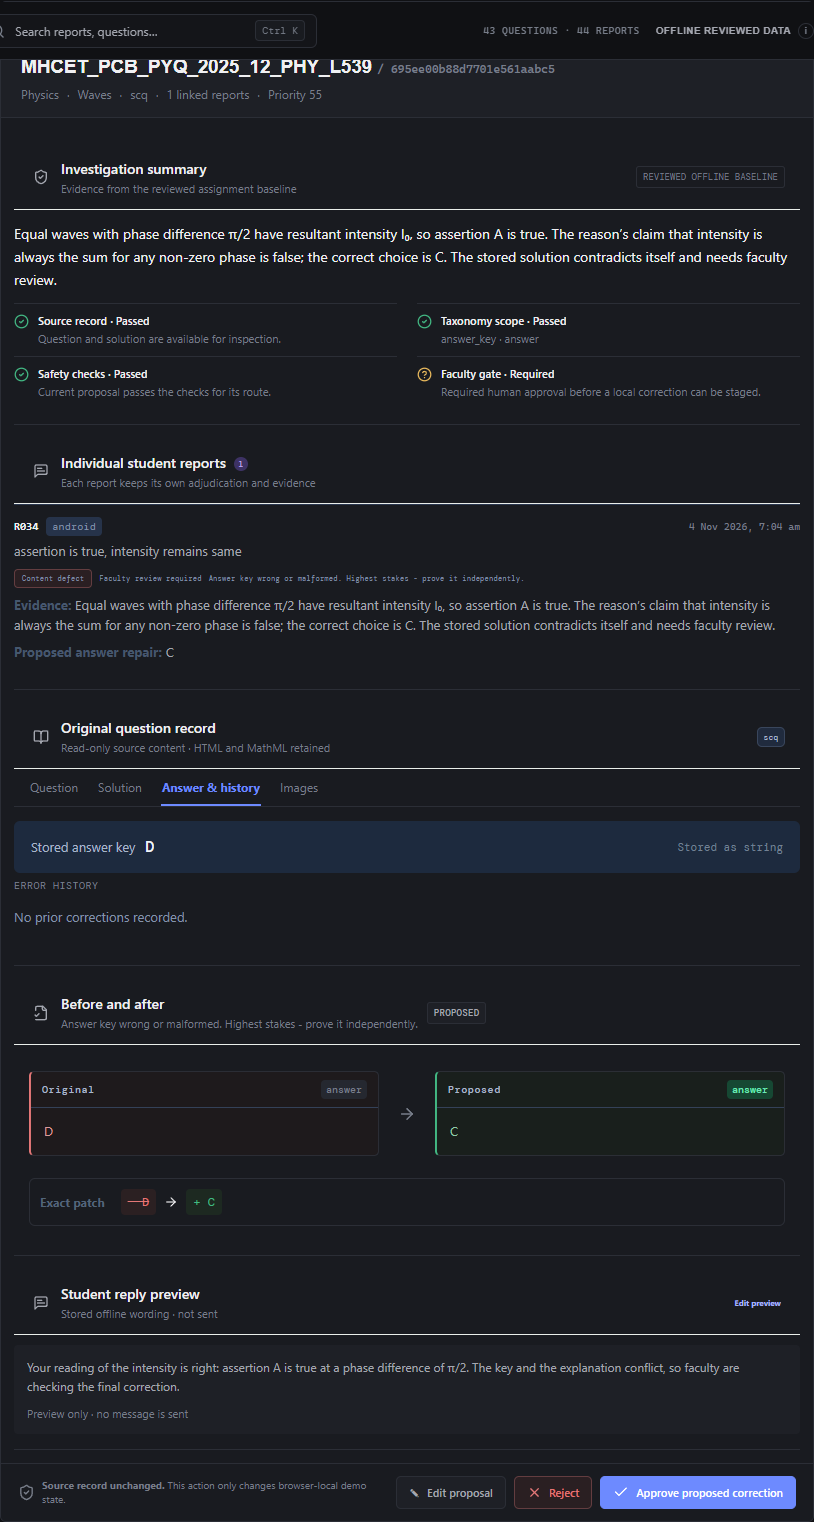
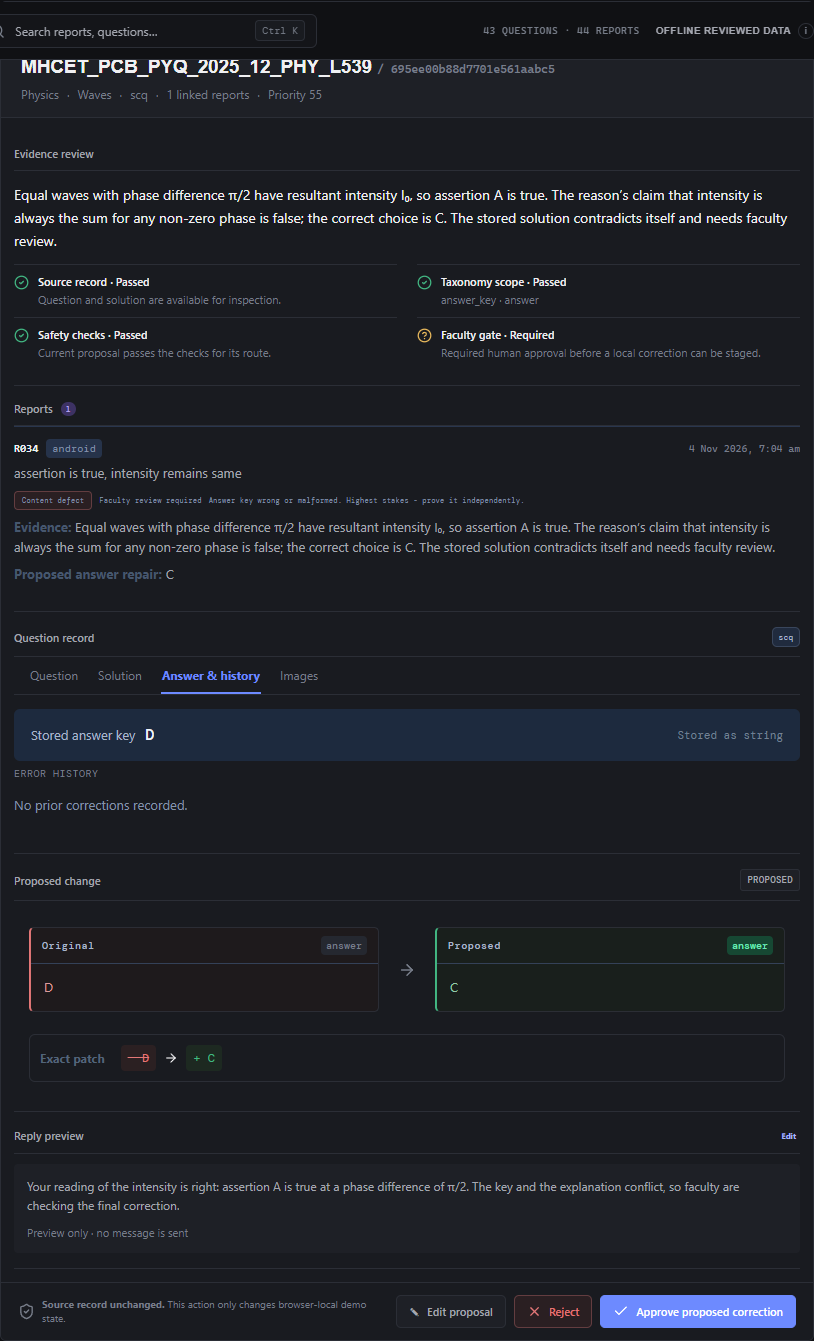
Document concise investigation headings release

diff --git a/docs/deployment.md b/docs/deployment.md
@@ -3,10 +3,10 @@
 ## Production deployment
 
 - **Live URL:** https://acadza-question-intelligence.vercel.app
-- **Production deployment URL:** https://acadza-question-intelligence-744ctakq7-hiten41s-projects.vercel.app
+- **Production deployment URL:** https://acadza-question-intelligence-gpjaztbgo-hiten41s-projects.vercel.app
 - **Repository:** https://github.com/Hiten41/acadza-question-intelligence
 - **Vercel project:** `hiten41s-projects/acadza-question-intelligence` (existing Hobby project)
-- **Production deployment ID:** `dpl_5CcUm6D9JBrn2dCQFWvJfFb7eRv7`
+- **Production deployment ID:** `dpl_GRSS2r9pezg6twymZB3g53inTzC8`
 - **Status:** Ready; deployed and verified on 11 November 2026 (Asia/Kolkata).
 - **Public access:** An unauthenticated request to the production alias returned HTTP 200.
 
@@ -22,8 +22,8 @@ The release checks passed on the final source snapshot:
 - `npm run results` — generated exactly 44 report-level results from 43 source questions (11 safe auto candidates and 19 faculty reviews).
 - `npm run build` — TypeScript and Vite production build passed.
 - `npm audit` — 0 vulnerabilities.
-- Chromium browser walkthrough — 35 checks passed on the public production alias with no uncaught browser or console errors. Checks covered overview counts and charts, global search, grouped R001 reports, the exact C-to-A mathematical change, confirmed local staging, persistence across refresh, proactive findings, the R034 faculty gate, staged decisions, audit history and JSON export, confirmed reset, mobile navigation and case detail, sidebar collapse, and seven viewport widths (360, 390, 768, 1024, 1280, 1440, and 1920 pixels) without horizontal overflow.
-- The public alias returned HTTP 200 after deployment. The production URL and screenshots were verified against deployment `dpl_5CcUm6D9JBrn2dCQFWvJfFb7eRv7`.
+- Chromium browser walkthrough — 36 checks passed on the public production alias with no uncaught browser or console errors. Checks covered overview counts and charts, global search, grouped R001 reports, the exact C-to-A mathematical change, confirmed local staging, persistence across refresh, proactive findings, the R034 faculty gate, staged decisions, audit history and JSON export, confirmed reset, mobile navigation and case detail, sidebar collapse, compact section headings, and seven viewport widths (360, 390, 768, 1024, 1280, 1440, and 1920 pixels) without horizontal overflow.
+- The public alias returned HTTP 200 after deployment. The production URL and screenshots were verified against deployment `dpl_GRSS2r9pezg6twymZB3g53inTzC8`.
 
[1 lines of base64/hex data omitted]
 

diff --git a/docs/demo-walkthrough.md b/docs/demo-walkthrough.md
@@ -1,6 +1,6 @@
 # Demo walkthrough
 
-Open the [public production demo](https://acadza-question-intelligence.vercel.app) in a fresh browser profile for a clean local review state. The demo stores review actions in browser local storage; **Reset demo** also clears that local state. The steps below were checked against the deployed application. The Overview uses compact assignment-derived summaries and charts; the queue pairs the case list with a technical investigation; Proactive Findings reads as a separate report; and Audit History presents browser-local actions chronologically.
+Open the [public production demo](https://acadza-question-intelligence.vercel.app) in a fresh browser profile for a clean local review state. The demo stores review actions in browser local storage; **Reset demo** also clears that local state. The steps below were checked against the deployed application. The Overview uses compact assignment-derived summaries and charts; the queue pairs the case list with a technical investigation using concise section labels; Proactive Findings reads as a separate report; and Audit History presents browser-local actions chronologically.
 
 1. **Overview:** check the supplied totals: 43 source questions, 44 student reports, 39 grouped question cases, 20 defect cases, 9 safe correction candidates, 16 faculty review cases, 25 cases with no content edit proposed, and 0 local reviews in a fresh profile.
 2. **R001–R003 LCR case:** open **Review Queue** and search `R001`. The three original reports stay attached to one case. Open the individual report and the **Answer & history** source tab. The stored key is C; the proposal is A because the supplied phasor calculation gives 50 V. Compare the original and proposed values.

diff --git a/docs/implementation-log.md b/docs/implementation-log.md
@@ -74,3 +74,9 @@ The application uses a pre-reviewed offline assignment baseline. It has no live 
 - Replayed 35 browser checks on the live production deployment, covering the overview, search and review flow, R001 mathematical comparison and confirmed local staging, persistence, proactive findings, the R034 faculty restriction, staged changes, audit JSON export, reset, seven responsive viewport widths, mobile navigation, and desktop sidebar collapse. No browser or console errors were observed.
 - Replaced the nine production screenshots under `screenshots/deployed/` with genuine captures of this deployment.
 - This is still an offline demonstration of the supplied reviewed assignment baseline, not a live LLM or Acadza production integration. No assignment data was changed, no email was sent, and no assignment was submitted.
+## 11 November 2026 — concise investigation headings
+
+- Removed repeated subtitles, decorative icons, and the redundant offline-baseline pill from investigation section headers. Kept short labels for evidence review, reports, the question record, the proposed change, and the reply preview; retained the decision status badge where it communicates staged/approved state.
+- Deployed the update to the existing Vercel project as `dpl_GRSS2r9pezg6twymZB3g53inTzC8` (Ready). The public alias returned HTTP 200.
+- All 27 tests passed. The production browser walkthrough passed 36 checks, including the concise section-heading check and mobile/desktop layout sweep, with no browser or console errors.
+- Captured refreshed screenshots from the live deployment. Assignment result hashes are unchanged.

diff --git a/README.md b/README.md
@@ -4,7 +4,7 @@
 
 > **Live production demo:** [https://acadza-question-intelligence.vercel.app](https://acadza-question-intelligence.vercel.app)
 
-> **Interface:** restrained, neutral dark review workspace with readable investigation details and data-derived charts.
+> **Interface:** restrained, neutral dark review workspace with concise investigation headings and data-derived charts.
 
 > **Demonstration only:** decisions are pre-reviewed offline assignment data. The app does not call a live LLM, connect to Acadza production, publish corrections, or provide server-side audit guarantees. Faculty decisions persist in the current browser's local storage.
 
